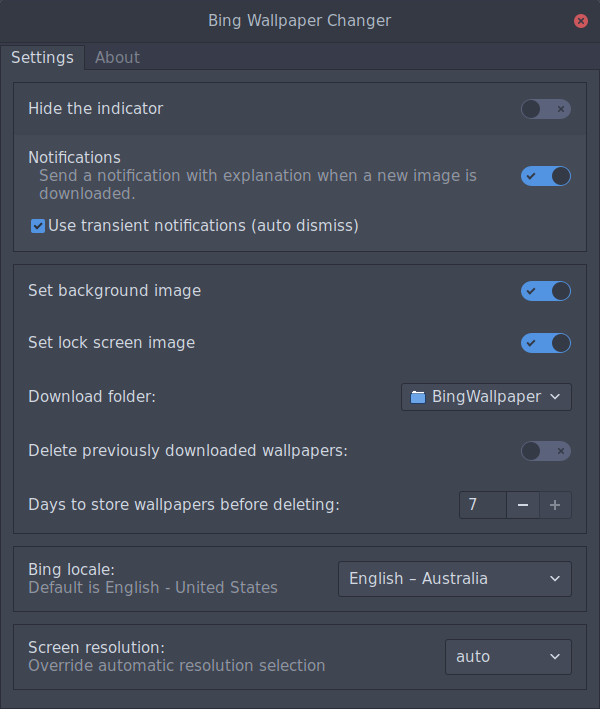
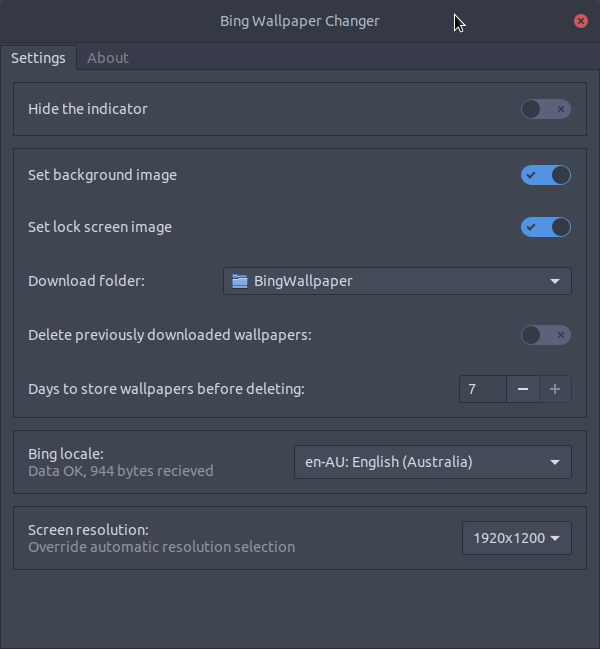
add Catalan translation #14, update screenshots

diff --git a/extension.js b/extension.js
@@ -274,6 +274,8 @@ const BingWallpaperIndicator = new Lang.Class({
         let datamarket = parsed['market']['mkt'];
         let prefmarket = this._settings.get_string('market');
 
+        log('JSON returned (raw):\n' + data);
+
         if (datamarket != prefmarket) {
           log('Mismatched market data, Req: '+prefmarket +' != Recv: ' + datamarket +')');
           this.title = _("Market not available in your region");

diff --git a/README.md b/README.md
@@ -21,7 +21,7 @@ This is my first attempt at a GNOME extension, so it may have some issues.
 * Optionally clean up Wallpaper directory after between 1 and 7 days (delete oldest first), or keep them forever
 * Only attempts to download wallpapers when they have been updated
 * Doesn't poll continuously - only once per day and on startup (a refresh is scheduled when Bing is due to update)
-* Language support: English, German (de), Dutch (nl), Italian (it), Polish (pl), Chinese (zh_CN), French (fr_FR), Portugeuse (pt, pt_BR), Russian (ru_RU), Spanish (es), Korean (ko, ko_KR, ko_KP) and Indonesian (id) - a HUGE thanks to the translators
+* Language support: English (en), German (de), Dutch (nl), Italian (it), Polish (pl), Chinese (zh_CN), French (fr_FR), Portugeuse (pt, pt_BR), Russian (ru_RU), Spanish (es), Korean (ko, ko_KR, ko_KP), Indonesian (id) and Catalan (ca) - a HUGE thanks to the translators
 
 ## TODO
 
